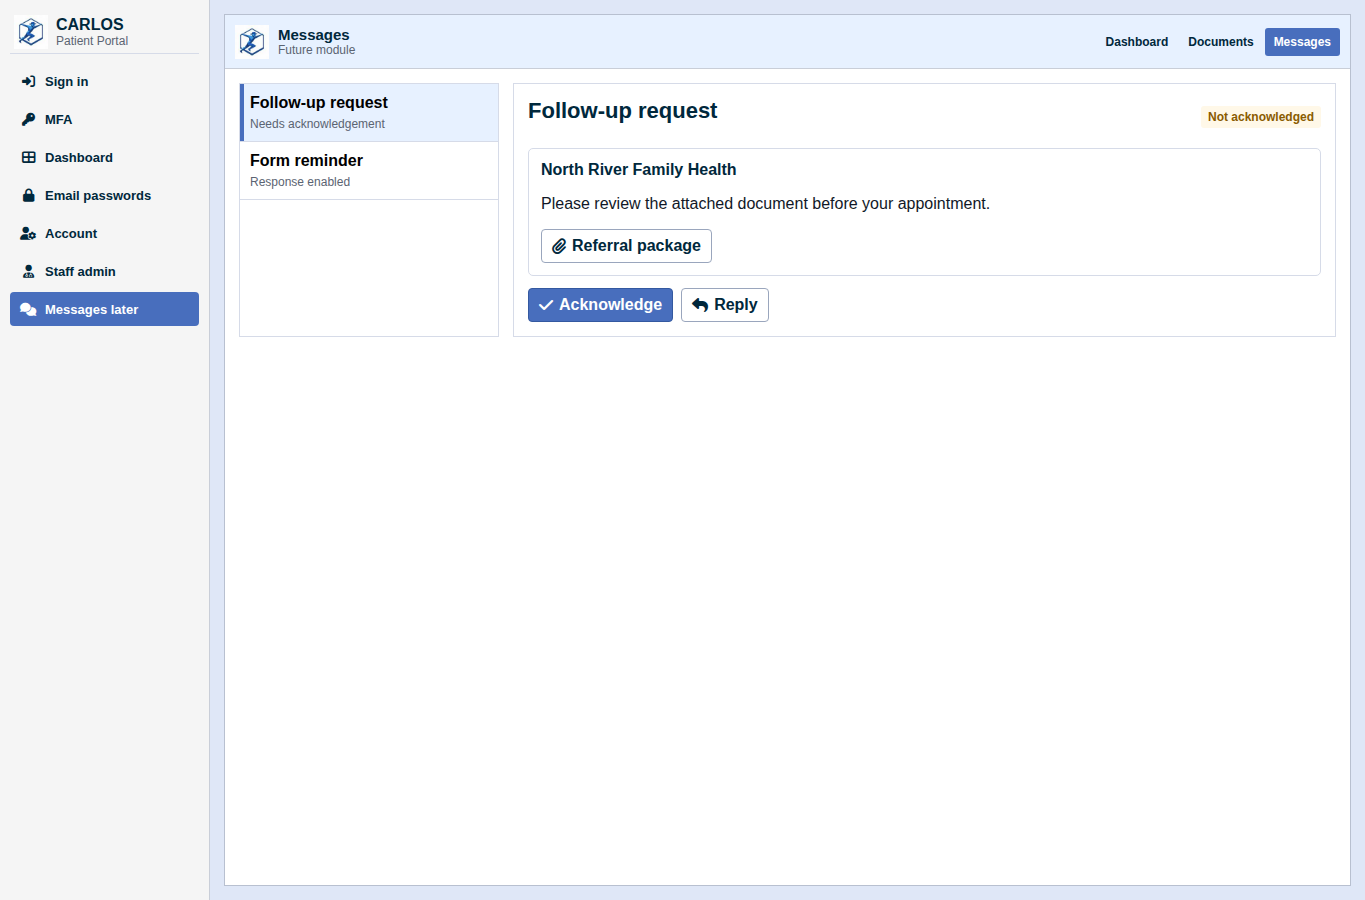
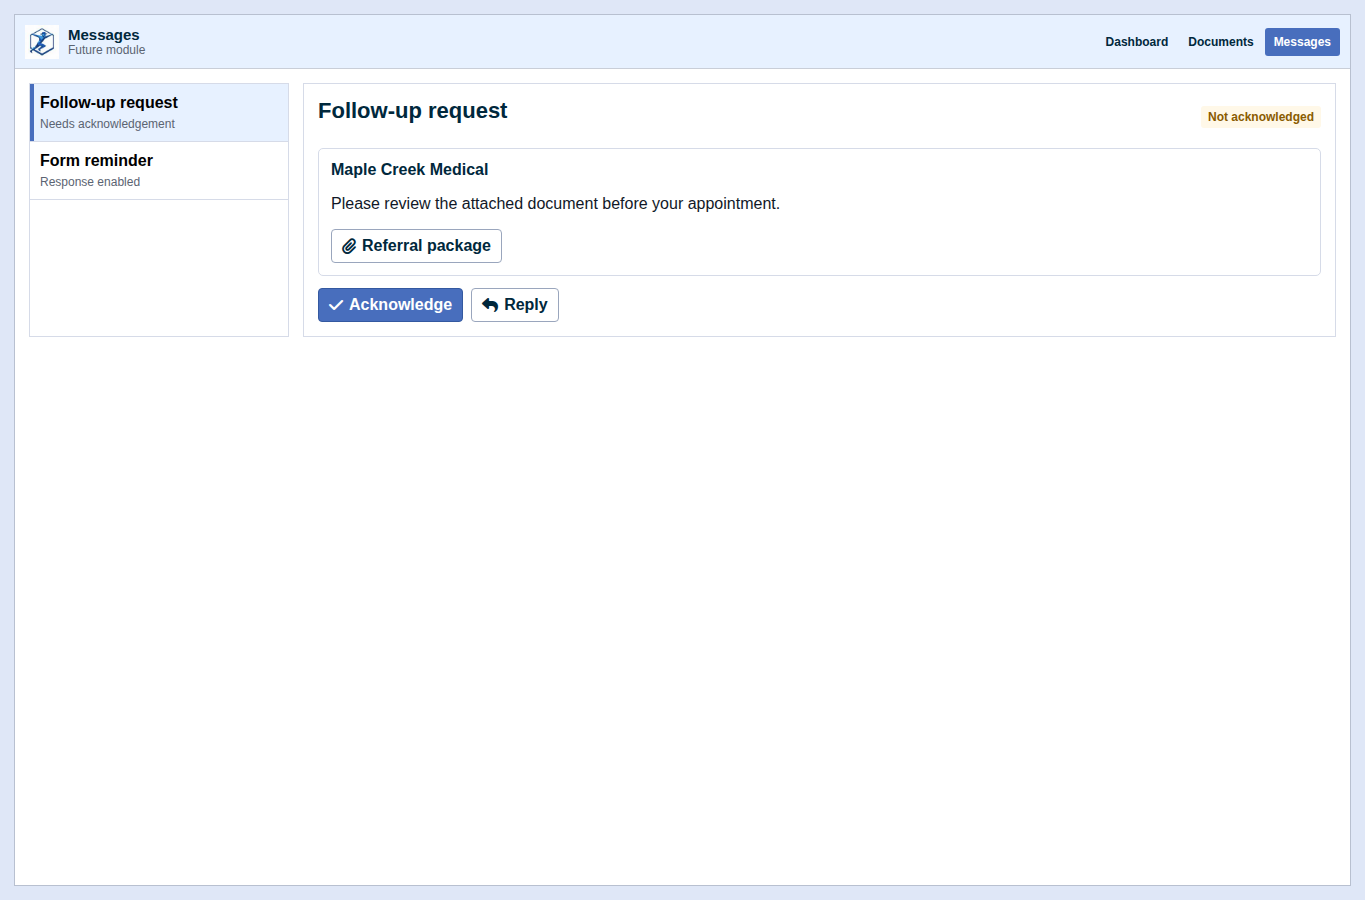
docs: remove mock navigation from portal screens

Changed region(s): [[0.0, 0.0, 0.7385, 0.9956]]

diff --git a/patient-portal-mocks/index.html b/patient-portal-mocks/index.html
@@ -8,25 +8,7 @@
   <link rel="stylesheet" href="styles.css">
 </head>
 <body>
-  <div class="mock-shell">
-    <aside class="screen-rail" aria-label="Mock screens">
-      <div class="rail-brand">
-        <img src="../src/main/webapp/images/oscar_logo_small.png" alt="" class="rail-logo">
-        <div>
-          <strong>CARLOS</strong>
-          <span>Patient Portal</span>
-        </div>
-      </div>
-      <button class="screen-link active" data-screen="signin"><i class="fas fa-sign-in-alt"></i><span>Sign in</span></button>
-      <button class="screen-link" data-screen="mfa"><i class="fas fa-key"></i><span>MFA</span></button>
-      <button class="screen-link" data-screen="dashboard"><i class="fas fa-th-large"></i><span>Dashboard</span></button>
-      <button class="screen-link" data-screen="passwords"><i class="fas fa-lock"></i><span>Email passwords</span></button>
-      <button class="screen-link" data-screen="account"><i class="fas fa-user-cog"></i><span>Account</span></button>
-      <button class="screen-link" data-screen="staff"><i class="fas fa-user-md"></i><span>Staff admin</span></button>
-      <button class="screen-link" data-screen="messages"><i class="fas fa-comments"></i><span>Messages later</span></button>
-    </aside>
-
-    <main class="screen-stage">
+  <main class="app-shell">
       <section class="portal-screen active" id="signin" aria-label="Sign in mock">
         <header class="patient-topbar compact">
           <div class="brand-lockup">
@@ -57,7 +39,7 @@
                 <span>Password</span>
                 <input type="password" value="mockpassword" autocomplete="current-password">
               </label>
-              <button class="primary-action" type="button"><i class="fas fa-arrow-right"></i><span>Continue</span></button>
+              <button class="primary-action" type="button" data-target="mfa"><i class="fas fa-arrow-right"></i><span>Continue</span></button>
               <div class="form-links">
                 <a href="#">Forgot password</a>
                 <a href="#">Need help</a>
@@ -73,7 +55,7 @@
             <img src="../src/main/webapp/images/oscar_logo_small.png" alt="" class="brand-logo">
             <div>
               <strong>CARLOS Patient Portal</strong>
-              <span>North River Family Health</span>
+              <span>Maple Creek Medical</span>
             </div>
           </div>
           <button class="topbar-button"><i class="fas fa-question-circle"></i><span>Help</span></button>
@@ -95,7 +77,7 @@
               <input inputmode="numeric" maxlength="1" value="">
             </div>
             <div class="button-row">
-              <button class="primary-action" type="button"><i class="fas fa-check"></i><span>Verify</span></button>
+              <button class="primary-action" type="button" data-target="dashboard"><i class="fas fa-check"></i><span>Verify</span></button>
               <button class="secondary-action" type="button"><i class="fas fa-redo"></i><span>Resend</span></button>
             </div>
             <p class="quiet-line">Code expires at 10:42 AM</p>
@@ -120,13 +102,13 @@
             <img src="../src/main/webapp/images/oscar_logo_small.png" alt="" class="brand-logo">
             <div>
               <strong>CARLOS Patient Portal</strong>
-              <span>Jane Brook · North River Family Health</span>
+              <span>Jane Brook · Maple Creek Medical</span>
             </div>
           </div>
           <nav class="patient-nav" aria-label="Portal navigation">
-            <button class="selected">Dashboard</button>
-            <button>Email passwords</button>
-            <button>Account</button>
+            <button class="selected" data-target="dashboard">Dashboard</button>
+            <button data-target="passwords">Email passwords</button>
+            <button data-target="account">Account</button>
             <button>Help</button>
           </nav>
           <button class="icon-button" title="Sign out" aria-label="Sign out"><i class="fas fa-power-off"></i></button>
@@ -134,12 +116,12 @@
 
         <div class="workspace">
           <section class="module-grid" aria-label="Portal modules">
-            <button class="module-tile">
+            <button class="module-tile" data-target="passwords">
               <i class="fas fa-lock"></i>
               <span>Email passwords</span>
               <small>3 available</small>
             </button>
-            <button class="module-tile">
+            <button class="module-tile" data-target="account">
               <i class="fas fa-user-cog"></i>
               <span>Account</span>
               <small>Password, contact, MFA</small>
@@ -179,13 +161,13 @@
             <img src="../src/main/webapp/images/oscar_logo_small.png" alt="" class="brand-logo">
             <div>
               <strong>Email passwords</strong>
-              <span>Jane Brook · North River Family Health</span>
+              <span>Jane Brook · Maple Creek Medical</span>
             </div>
           </div>
           <nav class="patient-nav" aria-label="Portal navigation">
-            <button>Dashboard</button>
-            <button class="selected">Email passwords</button>
-            <button>Account</button>
+            <button data-target="dashboard">Dashboard</button>
+            <button class="selected" data-target="passwords">Email passwords</button>
+            <button data-target="account">Account</button>
             <button>Help</button>
           </nav>
           <button class="icon-button" title="Sign out" aria-label="Sign out"><i class="fas fa-power-off"></i></button>
@@ -212,7 +194,7 @@
           <article class="record-row">
             <div class="record-main">
               <div class="record-title">Bloodwork requisition follow-up</div>
-              <div class="record-meta">Jul 18, 2026 · Dr. A. Singh · North River Family Health</div>
+              <div class="record-meta">Jul 18, 2026 · Dr. A. Singh · Maple Creek Medical</div>
             </div>
             <div class="password-chip" aria-label="Unlock password">R7KQ-MP3X-9VTA-2NHD</div>
             <button class="icon-button" title="Copy password" aria-label="Copy password"><i class="fas fa-copy"></i></button>
@@ -228,7 +210,7 @@
           <article class="record-row unavailable">
             <div class="record-main">
               <div class="record-title">Insurance form copy</div>
-              <div class="record-meta">Jun 28, 2026 · Admin team · North River Family Health</div>
+              <div class="record-meta">Jun 28, 2026 · Admin team · Maple Creek Medical</div>
             </div>
             <div class="password-chip muted" aria-label="Unavailable">Unavailable</div>
             <button class="icon-button" title="Unavailable" aria-label="Unavailable" disabled><i class="fas fa-ban"></i></button>
@@ -248,13 +230,13 @@
             <img src="../src/main/webapp/images/oscar_logo_small.png" alt="" class="brand-logo">
             <div>
               <strong>Account</strong>
-              <span>jane.brook</span>
+              <span>patient.username</span>
             </div>
           </div>
           <nav class="patient-nav" aria-label="Portal navigation">
-            <button>Dashboard</button>
-            <button>Email passwords</button>
-            <button class="selected">Account</button>
+            <button data-target="dashboard">Dashboard</button>
+            <button data-target="passwords">Email passwords</button>
+            <button class="selected" data-target="account">Account</button>
             <button>Help</button>
           </nav>
           <button class="icon-button" title="Sign out" aria-label="Sign out"><i class="fas fa-power-off"></i></button>
@@ -264,7 +246,7 @@
           <section class="settings-panel">
             <h2>Profile</h2>
             <dl class="summary-list">
-              <div><dt>Username</dt><dd>jane.brook</dd></div>
+              <div><dt>Username</dt><dd>patient.username</dd></div>
               <div><dt>Email</dt><dd>ja***@example.ca</dd></div>
               <div><dt>Phone</dt><dd>***-***-1284</dd></div>
             </dl>
@@ -328,7 +310,7 @@
               <tbody>
                 <tr>
                   <td><span class="pill good">Active</span></td>
-                  <td>jane.brook</td>
+                  <td>patient.username</td>
                   <td>Email</td>
                   <td>Accepted Jul 10, 2026</td>
                   <td>12 events</td>
@@ -386,7 +368,7 @@
               <span class="pill warn">Not acknowledged</span>
             </div>
             <div class="message-bubble staff-message">
-              <div class="sender-line">North River Family Health</div>
+              <div class="sender-line">Maple Creek Medical</div>
               <p>Please review the attached document before your appointment.</p>
               <button class="secondary-action"><i class="fas fa-paperclip"></i><span>Referral package</span></button>
             </div>
@@ -397,21 +379,33 @@
           </section>
         </div>
       </section>
-    </main>
-  </div>
+  </main>
 
   <script>
-    const links = document.querySelectorAll('.screen-link');
     const screens = document.querySelectorAll('.portal-screen');
 
-    links.forEach((link) => {
-      link.addEventListener('click', () => {
-        links.forEach((item) => item.classList.remove('active'));
-        screens.forEach((screen) => screen.classList.remove('active'));
-        link.classList.add('active');
-        document.getElementById(link.dataset.screen).classList.add('active');
+    function showScreen(id, replaceUrl = true) {
+      const next = document.getElementById(id);
+      if (!next) return;
+      screens.forEach((screen) => screen.classList.remove('active'));
+      next.classList.add('active');
+      if (replaceUrl) {
+        const url = new URL(window.location.href);
+        url.searchParams.set('screen', id);
+        window.history.replaceState({}, '', url);
+      }
+    }
+
+    document.querySelectorAll('[data-target]').forEach((button) => {
+      button.addEventListener('click', () => {
+        showScreen(button.dataset.target);
       });
     });
+
+    const initialScreen = new URLSearchParams(window.location.search).get('screen')
+      || window.location.hash.replace('#', '')
+      || 'signin';
+    showScreen(initialScreen, false);
   </script>
 </body>
 </html>

diff --git a/patient-portal-mocks/styles.css b/patient-portal-mocks/styles.css
@@ -53,74 +53,16 @@ a:hover {
   text-decoration: underline;
 }
 
-.mock-shell {
-  display: grid;
-  grid-template-columns: 210px minmax(0, 1fr);
+.app-shell {
   min-height: 100vh;
+  padding: 14px;
+  background: #dfe7f7;
 }
 
-.screen-rail {
-  display: flex;
-  flex-direction: column;
-  gap: 4px;
-  padding: 10px;
-  background: #f5f5f5;
-  border-right: 1px solid #c9ced8;
-}
-
-.rail-brand {
-  display: flex;
-  align-items: center;
-  gap: 8px;
-  min-height: 44px;
-  margin-bottom: 6px;
-  padding: 4px;
-  color: var(--carlos-blue-dark);
-  border-bottom: 1px solid var(--line);
-}
-
-.rail-brand span {
-  display: block;
-  font-size: 12px;
-  color: var(--muted);
-}
-
-.rail-logo,
 .brand-logo {
   width: 34px;
   height: 34px;
   object-fit: contain;
-}
-
-.screen-link {
-  display: flex;
-  align-items: center;
-  gap: 8px;
-  min-height: 34px;
-  padding: 6px 8px;
-  color: var(--carlos-blue-dark);
-  background: transparent;
-  border: 1px solid transparent;
-  border-radius: 4px;
-  text-align: left;
-  font-weight: bold;
-  font-size: 13px;
-}
-
-.screen-link i {
-  width: 18px;
-  text-align: center;
-}
-
-.screen-link:hover,
-.screen-link.active {
-  color: #fff;
-  background: var(--carlos-blue);
-}
-
-.screen-stage {
-  min-width: 0;
-  padding: 14px;
 }
 
 .portal-screen {
@@ -770,33 +712,6 @@ h2 {
 }
 
 @media (max-width: 920px) {
-  .mock-shell {
-    grid-template-columns: 1fr;
-  }
-
-  .screen-rail {
-    position: sticky;
-    top: 0;
-    z-index: 10;
-    display: grid;
-    grid-template-columns: repeat(4, minmax(0, 1fr));
-    border-right: 0;
-    border-bottom: 1px solid #c9ced8;
-  }
-
-  .rail-brand {
-    grid-column: 1 / -1;
-    margin: 0;
-  }
-
-  .screen-link {
-    justify-content: center;
-  }
-
-  .screen-link span {
-    display: none;
-  }
-
   .auth-layout,
   .workspace,
   .settings-grid,
@@ -811,7 +726,7 @@ h2 {
 }
 
 @media (max-width: 640px) {
-  .screen-stage {
+  .app-shell {
     padding: 0;
   }
 

diff --git a/patient-portal-mocks/README.md b/patient-portal-mocks/README.md
@@ -1,6 +1,15 @@
 # CARLOS Patient Portal Mocks
 
-Open `index.html` in a browser to switch between mock screens.
+Open `index.html` in a browser to view the sign-in screen.
+
+Other screens can be opened with `?screen=`:
+
+- `index.html?screen=mfa`
+- `index.html?screen=dashboard`
+- `index.html?screen=passwords`
+- `index.html?screen=account`
+- `index.html?screen=staff`
+- `index.html?screen=messages`
 
 Included screens:
 
@@ -11,8 +20,6 @@ Included screens:
 5. Account settings
 6. CARLOS staff invite/admin view
 7. Future patient messages concept
-
-The left screen rail is only for browsing the mock. It is not intended to be part of the patient portal UI.
 
 The mock takes visual cues from CARLOS/OSCAR: compact layout, blue selected states, light grey toolbars, table-like rows, small controls, and existing CARLOS/OSCAR logo assets.
 
